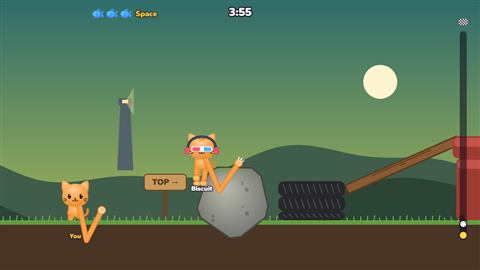
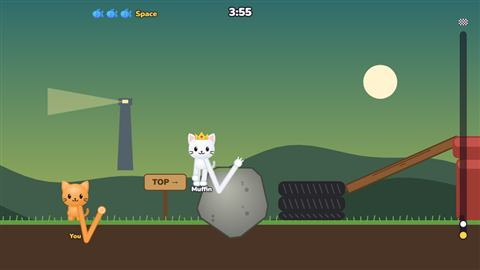
Home screen: wider page, bigger leaderboard, game pictures without the camera boxes

Changed region(s): [[0.375, 0.4741, 0.5312, 0.7407], [0.0938, 0.3259, 0.2812, 0.4444], [0.125, 0.8, 0.1875, 0.8296]]

diff --git a/index.html b/index.html
@@ -32,8 +32,8 @@
 <!-- (the font loads without holding up the page: the text shows in a stand-in font for a moment, then switches) -->
 <link rel="stylesheet" href="https://fonts.googleapis.com/css2?family=Bowlby+One&family=Nunito:wght@600;700;800;900&display=swap" media="print" onload="this.media='all'">
 <noscript><link rel="stylesheet" href="https://fonts.googleapis.com/css2?family=Bowlby+One&family=Nunito:wght@600;700;800;900&display=swap"></noscript>
-<link rel="stylesheet" href="style.css?v=102">
-<link rel="stylesheet" href="pieces.css?v=102">
+<link rel="stylesheet" href="style.css?v=103">
+<link rel="stylesheet" href="pieces.css?v=103">
 </head>
 <body>
 
@@ -750,48 +750,48 @@
 <script src="lib/chess.min.js"></script>
 <script src="lib/peerjs.min.js"></script>
 <script src="lib/world-map.js"></script>
-<script src="config.js?v=102"></script>
-<script src="server.js?v=102"></script>
-<script src="common.js?v=102"></script>
-<script src="solos.js?v=102"></script>
-<script src="games-quick.js?v=102"></script>
-<script src="games-words.js?v=102"></script>
-<script src="games-board.js?v=102"></script>
-<script src="games-world.js?v=102"></script>
+<script src="config.js?v=103"></script>
+<script src="server.js?v=103"></script>
+<script src="common.js?v=103"></script>
+<script src="solos.js?v=103"></script>
+<script src="games-quick.js?v=103"></script>
+<script src="games-words.js?v=103"></script>
+<script src="games-board.js?v=103"></script>
+<script src="games-world.js?v=103"></script>
 <script src="lib/countries.js"></script>
-<script src="games-action.js?v=102"></script>
-<script src="games-quiz.js?v=102"></script>
-<script src="games-mind.js?v=102"></script>
-<script src="games-tracker.js?v=102"></script>
-<script src="games-pose.js?v=102"></script>
-<script src="cam-walls.js?v=102"></script>
-<script src="games-floppy.js?v=102"></script>
-<script src="games-barrel.js?v=102"></script>
-<script src="games-walls.js?v=102"></script>
-<script src="games-duel.js?v=102"></script>
-<script src="games-trails.js?v=102"></script>
-<script src="games-box.js?v=102"></script>
-<script src="games-sumo.js?v=102"></script>
-<script src="games-pond.js?v=102"></script>
-<script src="games-hockey.js?v=102"></script>
-<script src="games-paint.js?v=102"></script>
-<script src="games-cannons.js?v=102"></script>
-<script src="games-golf.js?v=102"></script>
-<script src="games-mouse.js?v=102"></script>
-<script src="games-kart.js?v=102"></script>
-<script src="games-swords.js?v=102"></script>
-<script src="games-stare.js?v=102"></script>
-<script src="games-boxing.js?v=102"></script>
-<script src="games-dodge.js?v=102"></script>
-<script src="games-parkour.js?v=102"></script>
-<script src="games-poop.js?v=102"></script>
-<script src="games-hoops.js?v=102"></script>
-<script src="games-simon.js?v=102"></script>
-<script src="games-climb.js?v=102"></script>
-<script src="chess.js?v=102"></script>
-<script src="pass.js?v=102"></script>
-<script src="character.js?v=102"></script>
-<script src="leaders.js?v=102"></script>
-<script src="app.js?v=102"></script>
+<script src="games-action.js?v=103"></script>
+<script src="games-quiz.js?v=103"></script>
+<script src="games-mind.js?v=103"></script>
+<script src="games-tracker.js?v=103"></script>
+<script src="games-pose.js?v=103"></script>
+<script src="cam-walls.js?v=103"></script>
+<script src="games-floppy.js?v=103"></script>
+<script src="games-barrel.js?v=103"></script>
+<script src="games-walls.js?v=103"></script>
+<script src="games-duel.js?v=103"></script>
+<script src="games-trails.js?v=103"></script>
+<script src="games-box.js?v=103"></script>
+<script src="games-sumo.js?v=103"></script>
+<script src="games-pond.js?v=103"></script>
+<script src="games-hockey.js?v=103"></script>
+<script src="games-paint.js?v=103"></script>
+<script src="games-cannons.js?v=103"></script>
+<script src="games-golf.js?v=103"></script>
+<script src="games-mouse.js?v=103"></script>
+<script src="games-kart.js?v=103"></script>
+<script src="games-swords.js?v=103"></script>
+<script src="games-stare.js?v=103"></script>
+<script src="games-boxing.js?v=103"></script>
+<script src="games-dodge.js?v=103"></script>
+<script src="games-parkour.js?v=103"></script>
+<script src="games-poop.js?v=103"></script>
+<script src="games-hoops.js?v=103"></script>
+<script src="games-simon.js?v=103"></script>
+<script src="games-climb.js?v=103"></script>
+<script src="chess.js?v=103"></script>
+<script src="pass.js?v=103"></script>
+<script src="character.js?v=103"></script>
+<script src="leaders.js?v=103"></script>
+<script src="app.js?v=103"></script>
 </body>
 </html>

diff --git a/style.css b/style.css
@@ -1599,7 +1599,7 @@ body:not([data-route="auth"]):not([data-route="menu"]):not([data-route="privacy"
 .auth-hero h1 b { color: #ffc933; font-weight: 400; }
 .topbar { background: #14151c; backdrop-filter: none; }
 
-#scr-menu { --home: #ffc933; max-width: 1040px; padding-top: 28px; }
+#scr-menu { --home: #ffc933; max-width: 1320px; padding-top: 28px; }
 #scr-menu h1, #scr-menu h2 { font-family: 'Bowlby One', var(--font); font-weight: 400; letter-spacing: .2px; }
 
 #scr-menu .menu-hello { align-items: flex-end; gap: 18px; margin-bottom: 26px; }
@@ -1615,7 +1615,7 @@ body:not([data-route="auth"]):not([data-route="menu"]):not([data-route="privacy"
 
 #scr-menu .guest-note { padding: 10px 0; border: 0; border-top: 1px solid var(--border); border-bottom: 1px solid var(--border); border-radius: 0; font-weight: 600; }
 
-#scr-menu .mode-grid { grid-template-columns: 1.65fr 1fr; gap: 28px; margin-bottom: 20px; }
+#scr-menu .mode-grid { grid-template-columns: 1.55fr 1fr; gap: 28px; margin-bottom: 20px; }
 #scr-menu .mode-card { min-height: 0; padding: 0; border: 0; border-radius: 0; background: none; overflow: visible; transition: none; }
 #scr-menu .mode-card:hover { transform: none; box-shadow: none; }
 #scr-menu .mode-card h2 { margin: 0; font-size: clamp(26px, 3vw, 34px); }
@@ -1630,11 +1630,12 @@ body:not([data-route="auth"]):not([data-route="menu"]):not([data-route="privacy"
 .mc-shots img { display: block; width: 100%; height: auto; border-radius: 4px; }
 .mc-shots i { display: block; margin-top: 3px; color: var(--muted); font-size: 13px; font-style: normal; font-weight: 800; }
 
-#scr-menu .today-list { width: 100%; gap: 0; margin: 0; }
-#scr-menu .today-list li { padding: 8px 0; border-radius: 0; border-bottom: 1px solid var(--border); background: none; }
+#scr-menu .today-list { flex: 1; width: 100%; gap: 0; margin: 0; }
+#scr-menu .today-list li { flex: 1 1 auto; max-height: 136px; gap: 14px; padding: 8px 0; border-radius: 0; border-bottom: 1px solid var(--border); background: none; font-size: 18px; }
+#scr-menu .today-list .t-cat { width: 56px; height: 56px; }
 #scr-menu .today-list .t-rank { width: 16px; color: var(--muted); text-align: left; }
 #scr-menu .today-list .t-n { color: var(--text); }
-#scr-menu .today-more { margin-top: 4px; color: var(--home); }
+#scr-menu .today-more { margin-top: 12px; color: var(--home); }
 #scr-menu .today-card:hover .today-more { text-decoration: underline; }
 
 #scr-menu .prize-banner { display: block; margin: 0 0 26px; padding: 12px 0; border: 0; border-top: 1px solid var(--border); border-bottom: 1px solid var(--border); border-radius: 0; background: none; transition: none; }

diff --git a/tools/autotest.js b/tools/autotest.js
@@ -799,6 +799,7 @@ async function videoLimit() {
 
 // Plays a little of each game against the bot and takes a picture of it.
 async function homeShots() {
+  CA.camWalls.draw = () => {}; // (no camera walls in these pictures: nobody's camera is there to explain them)
   window.__fakeFace = { face: true, blink: 0 };
   for (const id of q.get('games').split(',')) {
     location.hash = '#/menu';
@@ -808,7 +809,7 @@ async function homeShots() {
     location.hash = '#/practice?game=' + id;
     await until(() => $('stage').querySelector('canvas'), 20000, id + ' to start');
     const end = Date.now() + 9000;
-    while (Date.now() < end) { const d = window.__duel; if (d && d.phase() === 'play') mash(d); await sleep(150); }
+    while (Date.now() < end) { const d = window.__duel; if (d && d.phase() === 'play') { if (id === 'paint') { const G = d.state().grid; for (let k = 0; k < G.length; k++) if (G[k] === 3) G[k] = 0; } mash(d); } await sleep(150); }
     if (window.__duel) letGo(window.__duel);
     const c = $('stage').querySelector('canvas');
     await log('shot game-' + id, true, c.toDataURL('image/png'));
@@ -839,6 +840,7 @@ function shot(name) {
 const wait = sleep;
 
 async function rules() {
+  if (q.get('nowalls')) CA.camWalls.draw = () => {}; // (for the home screen's pictures: see homeShots)
   if (!q.get('skip') || !q.get('skip').includes('paint')) await turfRules();
   if (!q.get('skip') || !q.get('skip').includes('mouse')) await heistRules();
   if (!q.get('skip') || !q.get('skip').includes('pond')) await pondRules();

diff --git a/app.js b/app.js
@@ -368,7 +368,7 @@ function showShots() {
   while (picks.length < 4 && pool.length) picks.push(pool.splice(Math.floor(Math.random() * pool.length), 1)[0]);
   $('menuShots').innerHTML = picks.map(id => {
     const name = CA.esc(CA.games.name(id));
-    return '<span><img src="img/home-' + id + '.jpg" alt="' + name + '" width="480" height="270"><i>' + name + '</i></span>';
+    return '<span><img src="img/home-' + id + '.jpg?v=2" alt="' + name + '" width="480" height="270"><i>' + name + '</i></span>';
   }).join('');
 }
 
